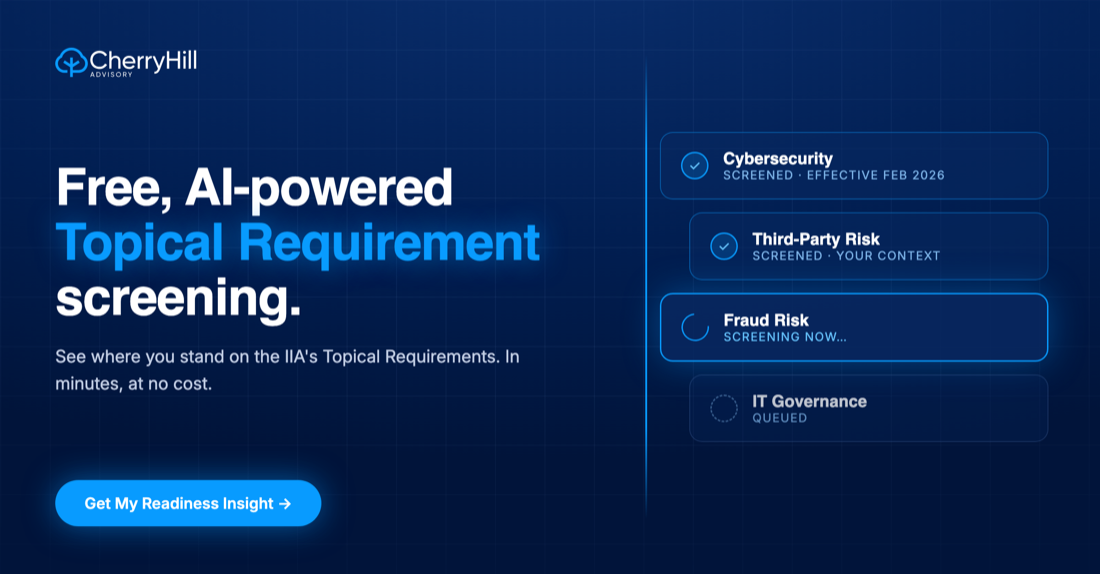
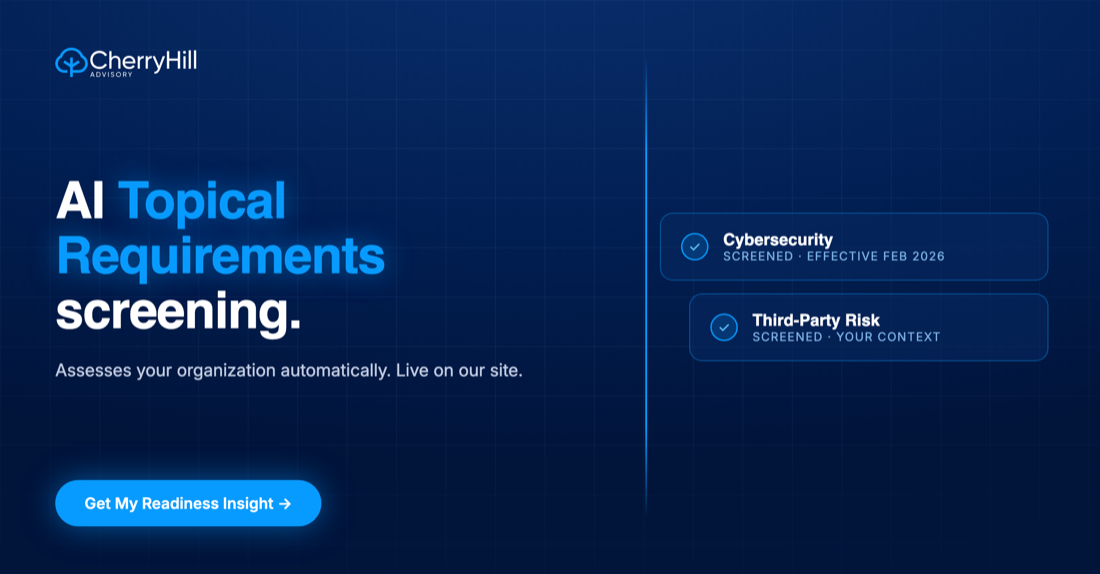
Cherry Hill screener: AI-powered auto-assessment framing in caption and graphic, drop the two non-existent requirement rows

diff --git a/cherry-hill-advisory/ai-launch/index.html b/cherry-hill-advisory/ai-launch/index.html
@@ -651,20 +651,18 @@ Human-Led. AI-Enabled.
 
 cherryhilladvisory.com/ai-enabled-internal-audit-services
 
-#InternalAudit #AIGovernance #CherryHillAdvisory</div></div></div><div><div class="plab"><span class="pdot" style="background:var(--blue)"></span>MON JUL 27 &middot; Company &middot; Topical Screener: test it now</div><div class="pcard"><div class="pgfx" style="flex:0 0 312px"><div style="display:flex;gap:12px;flex-wrap:wrap"><figure style="margin:0;width:150px"><img src="img/dc-screener-port.png" loading="lazy" style="width:100%;border-radius:10px;border:1px solid rgba(255,255,255,.18);display:block"><figcaption style="font-size:10.5px;opacity:.65;margin-top:5px;letter-spacing:.03em">Handoff · portrait</figcaption></figure><figure style="margin:0;width:150px"><img src="img/dc-screener-land.png" loading="lazy" style="width:100%;border-radius:10px;border:1px solid rgba(255,255,255,.18);display:block"><figcaption style="font-size:10.5px;opacity:.65;margin-top:5px;letter-spacing:.03em">Handoff · landscape</figcaption></figure></div></div><div class="pbox">𝗢𝘂𝗿 𝗔𝗜-𝗘𝗻𝗮𝗯𝗹𝗲𝗱 𝗦𝗲𝗿𝘃𝗶𝗰𝗲𝘀 𝗹𝗮𝘂𝗻𝗰𝗵𝗲𝗱 𝗹𝗮𝘀𝘁 𝘄𝗲𝗲𝗸. 𝗛𝗲𝗿𝗲 𝗶𝘀 𝗼𝗻𝗲 𝘆𝗼𝘂 𝗰𝗮𝗻 𝗿𝘂𝗻 𝘆𝗼𝘂𝗿𝘀𝗲𝗹𝗳, 𝗿𝗶𝗴𝗵𝘁 𝗻𝗼𝘄.
+#InternalAudit #AIGovernance #CherryHillAdvisory</div></div></div><div><div class="plab"><span class="pdot" style="background:var(--blue)"></span>MON JUL 27 &middot; Company &middot; Topical Screener: test it now</div><div class="pcard"><div class="pgfx" style="flex:0 0 312px"><div style="display:flex;gap:12px;flex-wrap:wrap"><figure style="margin:0;width:150px"><img src="img/dc-screener-port.png" loading="lazy" style="width:100%;border-radius:10px;border:1px solid rgba(255,255,255,.18);display:block"><figcaption style="font-size:10.5px;opacity:.65;margin-top:5px;letter-spacing:.03em">Handoff · portrait</figcaption></figure><figure style="margin:0;width:150px"><img src="img/dc-screener-land.png" loading="lazy" style="width:100%;border-radius:10px;border:1px solid rgba(255,255,255,.18);display:block"><figcaption style="font-size:10.5px;opacity:.65;margin-top:5px;letter-spacing:.03em">Handoff · landscape</figcaption></figure></div></div><div class="pbox">𝗔𝗜 𝗧𝗼𝗽𝗶𝗰𝗮𝗹 𝗥𝗲𝗾𝘂𝗶𝗿𝗲𝗺𝗲𝗻𝘁𝘀 𝘀𝗰𝗿𝗲𝗲𝗻𝗶𝗻𝗴. 𝗟𝗶𝘃𝗲 𝗼𝗻 𝗼𝘂𝗿 𝘀𝗶𝘁𝗲, 𝗳𝗿𝗲𝗲, 𝗿𝗶𝗴𝗵𝘁 𝗻𝗼𝘄.
+
+It assesses your organization automatically for conformance against the issued Topical Requirements. No workbook to fill in, no scoping call to book. The AI runs the assessment and hands you the result.
+
+This is one of our AI-Enabled Services, opened up so anyone can use it. The same engine our practitioners run, pointed at your own function.
+
+→ Runs live on the website, free
+→ Assesses your organization automatically against each issued requirement
+→ Conformance gaps ranked, not just listed
+→ Minutes, no login, no proposal
 
 Most firms ask you to book a call to see how their AI works. We would rather you just use it.
-
-The Topical Requirements Screener is one of our AI-Enabled Services, opened up for anyone. The same engine our practitioners run, pointed at your own function.
-
-Four Topical Requirements are issued. The IIA put Cybersecurity in effect on February 5. Third-Party lands September 15. Organizational Behavior December 15. Organizational Resilience April 30, 2027. Most functions are working them one at a time, and the dates do not wait their turn.
-
-→ Answer a short set of questions about your function
-→ Watch it screen you against each issued requirement
-→ Gaps ranked, not just listed
-→ Minutes, not a scoping call
-
-No login, no license, nothing to install, and no proposal at the end of it. Go break it.
 
 cherryhilladvisory.com/ai-enabled-internal-audit-services
 

diff --git a/cherry-hill-advisory/ai-launch/publer-queue.html b/cherry-hill-advisory/ai-launch/publer-queue.html
@@ -75,20 +75,18 @@ Human-Led. AI-Enabled.
 
 cherryhilladvisory.com/ai-enabled-internal-audit-services
 
-#InternalAudit #AIGovernance #CherryHillAdvisory</pre></div></article><article><header><span class="dot company"></span><b>MON JUL 27</b><span class="ch">Company</span><span class="ti">Topical Screener: test it now</span><button class="cp" onclick="cp(this)">Copy caption</button></header><div class="row"><div class="gs"><figure><img src="img/dc-screener-port.png" loading="lazy"><figcaption>Handoff · portrait</figcaption></figure><figure><img src="img/dc-screener-land.png" loading="lazy"><figcaption>Handoff · landscape</figcaption></figure></div><pre class="cap">𝗢𝘂𝗿 𝗔𝗜-𝗘𝗻𝗮𝗯𝗹𝗲𝗱 𝗦𝗲𝗿𝘃𝗶𝗰𝗲𝘀 𝗹𝗮𝘂𝗻𝗰𝗵𝗲𝗱 𝗹𝗮𝘀𝘁 𝘄𝗲𝗲𝗸. 𝗛𝗲𝗿𝗲 𝗶𝘀 𝗼𝗻𝗲 𝘆𝗼𝘂 𝗰𝗮𝗻 𝗿𝘂𝗻 𝘆𝗼𝘂𝗿𝘀𝗲𝗹𝗳, 𝗿𝗶𝗴𝗵𝘁 𝗻𝗼𝘄.
+#InternalAudit #AIGovernance #CherryHillAdvisory</pre></div></article><article><header><span class="dot company"></span><b>MON JUL 27</b><span class="ch">Company</span><span class="ti">Topical Screener: test it now</span><button class="cp" onclick="cp(this)">Copy caption</button></header><div class="row"><div class="gs"><figure><img src="img/dc-screener-port.png" loading="lazy"><figcaption>Handoff · portrait</figcaption></figure><figure><img src="img/dc-screener-land.png" loading="lazy"><figcaption>Handoff · landscape</figcaption></figure></div><pre class="cap">𝗔𝗜 𝗧𝗼𝗽𝗶𝗰𝗮𝗹 𝗥𝗲𝗾𝘂𝗶𝗿𝗲𝗺𝗲𝗻𝘁𝘀 𝘀𝗰𝗿𝗲𝗲𝗻𝗶𝗻𝗴. 𝗟𝗶𝘃𝗲 𝗼𝗻 𝗼𝘂𝗿 𝘀𝗶𝘁𝗲, 𝗳𝗿𝗲𝗲, 𝗿𝗶𝗴𝗵𝘁 𝗻𝗼𝘄.
+
+It assesses your organization automatically for conformance against the issued Topical Requirements. No workbook to fill in, no scoping call to book. The AI runs the assessment and hands you the result.
+
+This is one of our AI-Enabled Services, opened up so anyone can use it. The same engine our practitioners run, pointed at your own function.
+
+→ Runs live on the website, free
+→ Assesses your organization automatically against each issued requirement
+→ Conformance gaps ranked, not just listed
+→ Minutes, no login, no proposal
 
 Most firms ask you to book a call to see how their AI works. We would rather you just use it.
-
-The Topical Requirements Screener is one of our AI-Enabled Services, opened up for anyone. The same engine our practitioners run, pointed at your own function.
-
-Four Topical Requirements are issued. The IIA put Cybersecurity in effect on February 5. Third-Party lands September 15. Organizational Behavior December 15. Organizational Resilience April 30, 2027. Most functions are working them one at a time, and the dates do not wait their turn.
-
-→ Answer a short set of questions about your function
-→ Watch it screen you against each issued requirement
-→ Gaps ranked, not just listed
-→ Minutes, not a scoping call
-
-No login, no license, nothing to install, and no proposal at the end of it. Go break it.
 
 cherryhilladvisory.com/ai-enabled-internal-audit-services
 
